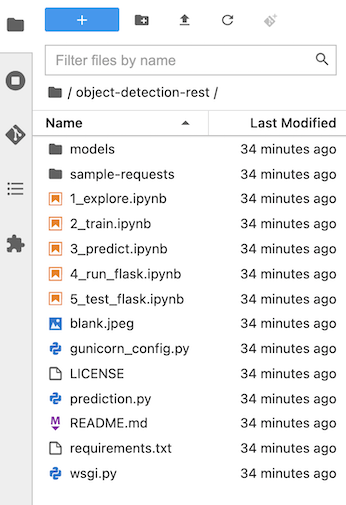
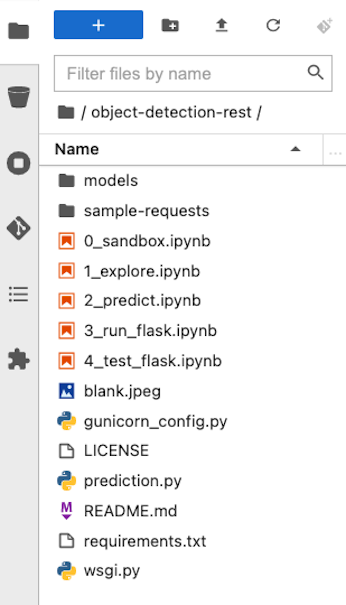
[CI] Publish Documentation for 61e3de55e45807dc6b5a4e72b9754565a32d4a87 - 61e3de55e45807dc6b5a4e72b9754565a32d4a87 🚀

diff --git a/od-workshop/03-notebooks.html b/od-workshop/03-notebooks.html
@@ -178,7 +178,7 @@
 <div class="ulist">
 <ul>
 <li>
-<p>In your Jupyter environment (the file explorer-like interface), there is file called <code>01_sanbdbox.ipynb</code>. Double-click on it to launch the notebook (it will open another tab in the content section of the environment). Please feel free to experiment, run the cells, add some more and create functions. You can do what you want - it&#8217;s your environment, and there is no risk of breaking anything or impacting other users. This environment isolation is also a great advantage brought by <strong>Red Hat OpenShift Data Science</strong>.</p>
+<p>In your Jupyter environment (the file explorer-like interface), there is file called <code>0_sanbdbox.ipynb</code>. Double-click on it to launch the notebook (it will open another tab in the content section of the environment). Please feel free to experiment, run the cells, add some more and create functions. You can do what you want - it&#8217;s your environment, and there is no risk of breaking anything or impacting other users. This environment isolation is also a great advantage brought by <strong>Red Hat OpenShift Data Science</strong>.</p>
 </li>
 <li>
 <p>You can also create a new notebook by selecting <code>File</code>-&gt;<code>New</code>-&gt;<code>Notebook</code>from the menu on the top left, then select a Python 3 kernel. This instructs Jupyter that we want to create a new notebook where the code cells will be run using a Python 3 kernel. We could have different kernels, with different languages or versions that we can run into notebooks, but that&#8217;s a story for another time&#8230;&#8203;</p>

diff --git a/od-workshop/05-model-api.html b/od-workshop/05-model-api.html
@@ -120,15 +120,15 @@
 </ul>
 </div>
 <div class="paragraph">
-<p>After these explanations, you are ready to open the file <code>03_LPR_run_application.ipynb</code>, and follow the instructions directly in the notebook!</p>
+<p>After these explanations, you are ready to open the file <code>2_predict.ipynb</code>, to see how we extract the code needed for the <code>prediction.py</code> file. Then, launch notebooks <code>3_run_flask.ipynb</code> and <code>4_test_flask.ipynb</code> and follow the instructions directly in the notebooks!</p>
 </div>
 <div class="imageblock">
 <div class="content">
-<img src="_images/lpr_run.png" alt="alt text">
+<img src="_images/od_run.png" alt="alt text">
 </div>
 </div>
 <div class="paragraph">
-<p>You&#8217;ll first launch the Server:</p>
+<p>You&#8217;ll first launch the Server in notebook <code>3_run_flask.ipynb</code>:</p>
 </div>
 <div class="imageblock">
 <div class="content">
@@ -136,7 +136,7 @@
 </div>
 </div>
 <div class="paragraph">
-<p>Then query the API:</p>
+<p>Then query the API from notebok <code>4_test_flask.ipynb</code>:</p>
 </div>
 <div class="imageblock">
 <div class="content">

diff --git a/od-workshop/01-start-jupyter.html b/od-workshop/01-start-jupyter.html
@@ -158,10 +158,11 @@
 <img src="_images/j_start.png" alt="alt text">
 </div>
 </div>
+<div class="paragraph">
+<p>While your environment is starting,  <a href="02-jupyter-env.html" class="page">let&#8217;s go to the next section.</a></p>
 </div>
 </div>
-<h1 id="_while_your_environment_is_starting_lets_go_to_the_next_section" class="sect0"><a class="anchor" href="#_while_your_environment_is_starting_lets_go_to_the_next_section"></a>While your environment is starting,  <a href="02-jupyter-env.html" class="page">let&#8217;s go to the next section.</a></h1>
-
+</div>
 <nav class="pagination">
   <span class="prev"><a href="index.html">Object Detection Workshop</a></span>
   <span class="next"><a href="02-jupyter-env.html">2. The Jupyter environment</a></span>

diff --git a/od-workshop/04-object-detection.html b/od-workshop/04-object-detection.html
@@ -105,7 +105,7 @@
 </div>
 <div class="imageblock">
 <div class="content">
-<img src="_images/notebook_lpr.png" alt="alt text">
+<img src="_images/notebook_od.png" alt="alt text">
 </div>
 </div>
 <div class="paragraph">
@@ -113,7 +113,7 @@
 </div>
 <div class="imageblock">
 <div class="content">
-<img src="_images/lpr_result.png" alt="alt text">
+<img src="_images/od_result.png" alt="alt text">
 </div>
 </div>
 <div class="paragraph">
